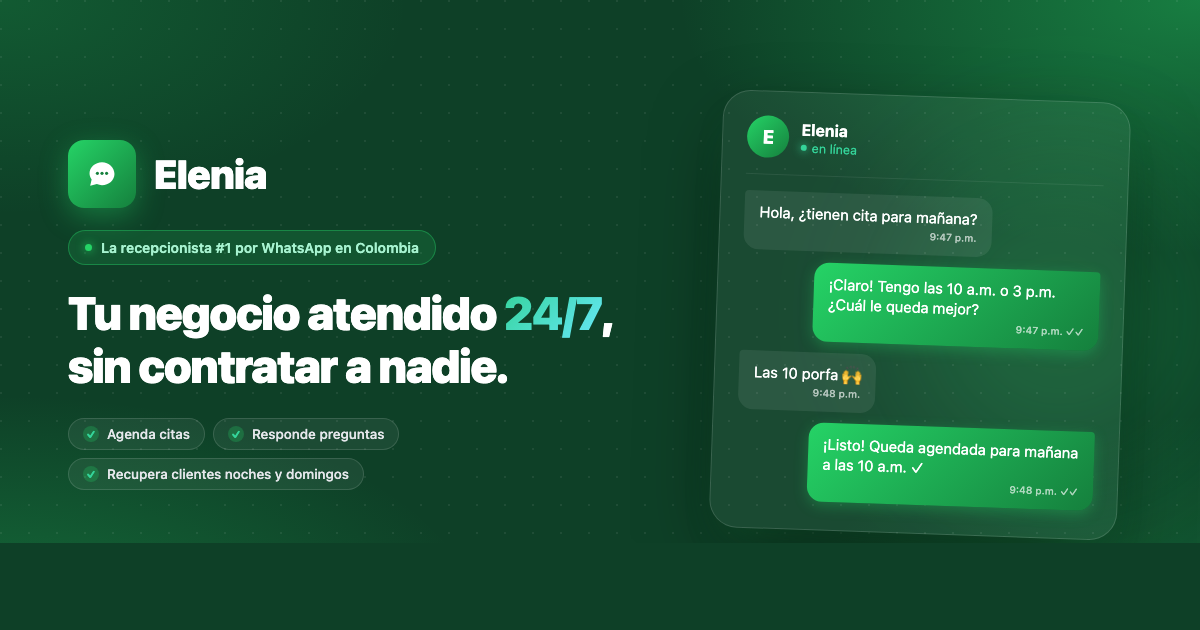
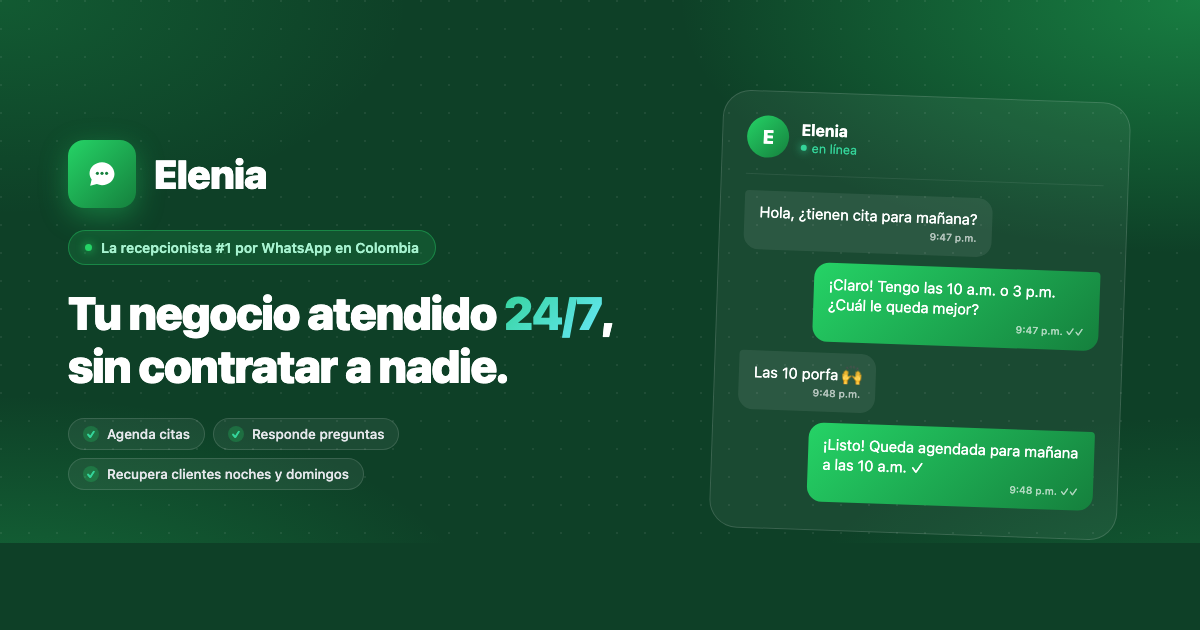
Remove shadows that were painting a dark band on the OG image
The chat mockup's heavy drop-shadow (and the softer .glow/bubble shadow)
were bleeding dark pixels below the card, creating a visible horizontal
band along the bottom of the image. Drop those shadows so the green
background reads uniformly end to end.

Also drop the mobile iPhone max-width so the frame fills the container
fully on mobile.

Changed region(s): [[0.6783, 0.3921, 0.925, 0.6032], [0.7092, 0.7841, 0.8942, 0.8143]]

diff --git a/index.html b/index.html
@@ -1782,9 +1782,9 @@ button { border: none; cursor: pointer; font-family: inherit; }
   .steps-grid { grid-template-columns: 1fr; gap: 32px; max-width: 400px; }
   .steps-grid::before { display: none; }
 
-  .phones-scroll { flex-direction: column; align-items: center; width: 100%; }
+  .phones-scroll { flex-direction: column; align-items: stretch; width: 100%; }
   .phones-scroll .iphone-frame:nth-child(n+2) { display: none; }
-  .phones-scroll .iphone-frame:first-child { width: 100%; max-width: 360px; }
+  .phones-scroll .iphone-frame:first-child { width: 100%; max-width: none; }
 
   .footer-grid { grid-template-columns: 1fr 1fr; gap: 32px; }
 
@@ -1805,7 +1805,6 @@ button { border: none; cursor: pointer; font-family: inherit; }
 
 @media (max-width: 480px) {
   .hero h1 { font-size: 28px; }
-  .phones-scroll .iphone-frame:first-child { max-width: 300px; }
   .section-title { font-size: 26px; }
   .footer-grid { grid-template-columns: 1fr; }
   .footer-bottom { flex-direction: column; gap: 12px; text-align: center; }

diff --git a/.og-template.html b/.og-template.html
@@ -125,9 +125,6 @@
     border: 1px solid rgba(255,255,255,0.14);
     border-radius: 28px;
     padding: 24px 24px 28px;
-    box-shadow:
-      0 30px 80px -15px rgba(0,0,0,0.6),
-      0 20px 40px -20px rgba(37,211,102,0.35);
     position: relative;
     transform: rotate(2deg);
   }
@@ -164,7 +161,6 @@
     background: linear-gradient(135deg, #25D366, #15803D);
     color: #fff;
     border-top-right-radius: 4px;
-    box-shadow: 0 4px 14px rgba(37,211,102,0.3);
   }
   .time {
     font-size: 10px; opacity: 0.65;
@@ -176,7 +172,6 @@
 </head>
 <body>
   <div class="dots"></div>
-  <div class="glow"></div>
 
   <div class="stage">
     <div class="left">
